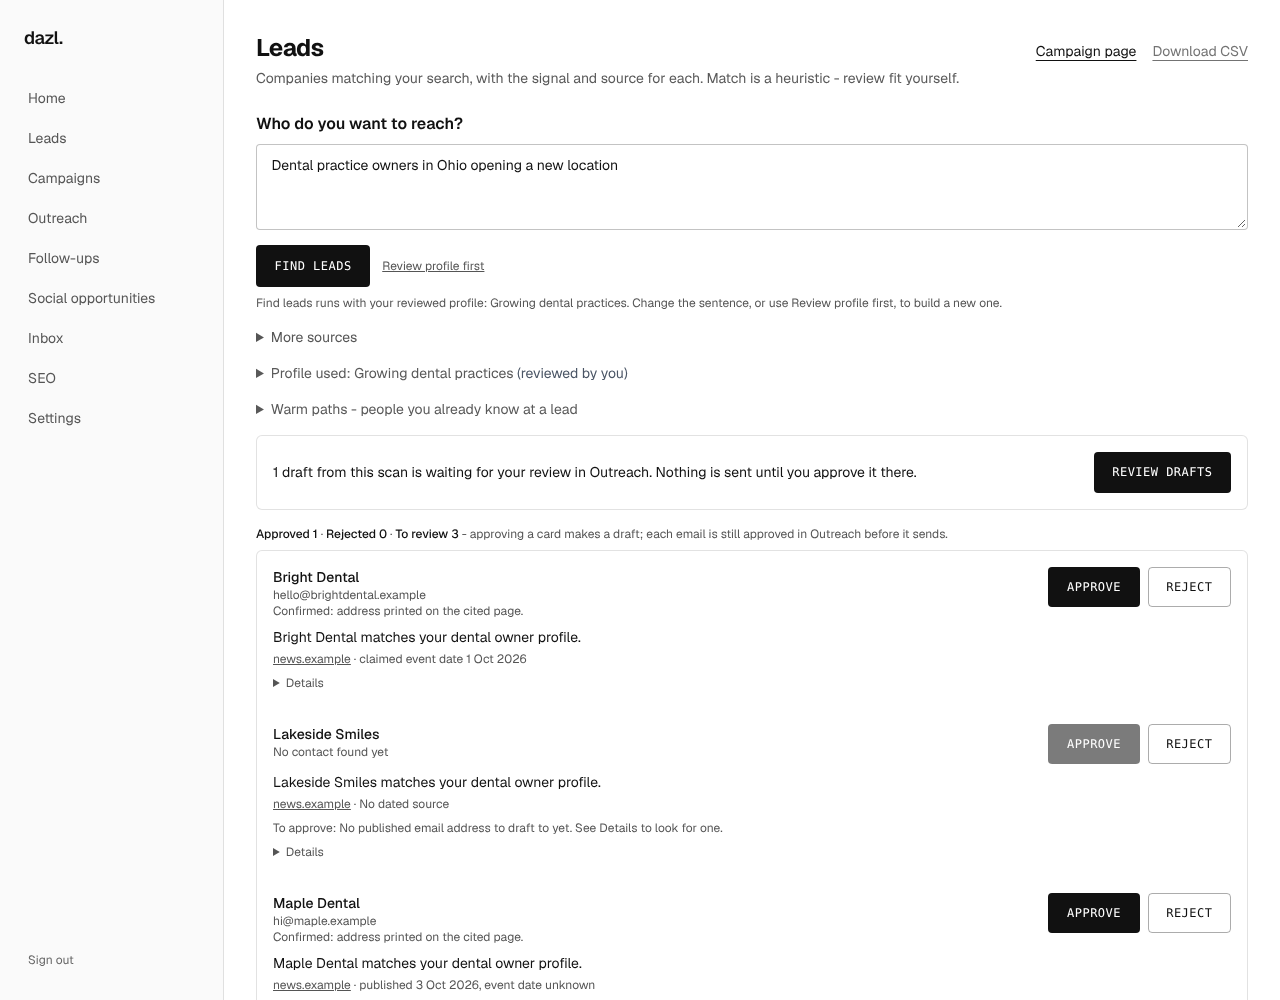
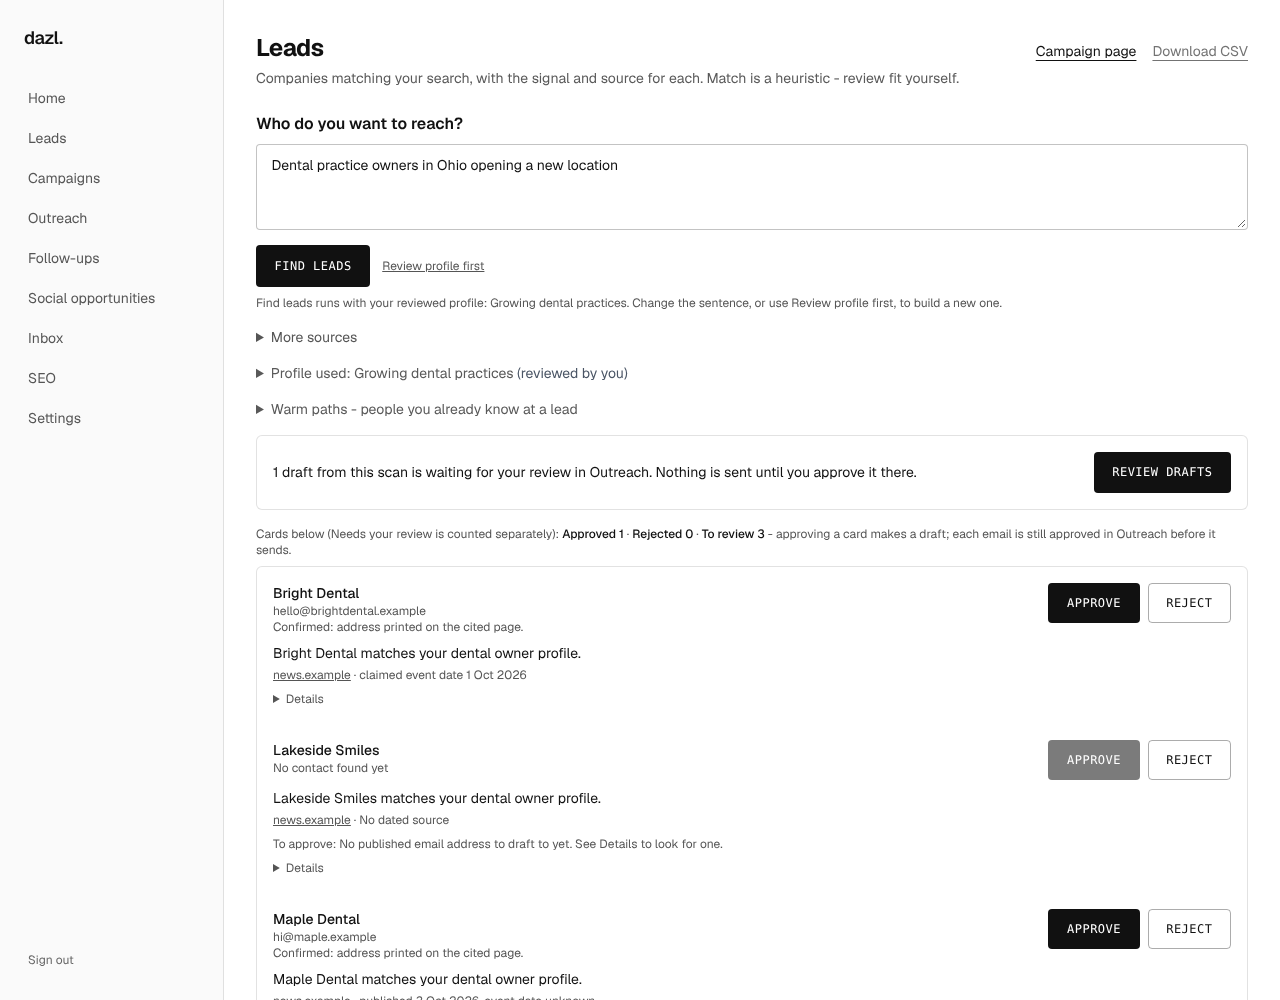
Lead cards: counts and the drafts bar read this scan's complete campaign record, and the bar says its scope
Instinct #285: the bar read GET /api/outreach, which holds only the account's newest 200 emails, so an older scan's
draft could fall outside it and read as Approved 0 / To review. Leads now reads GET /api/campaigns/<scan> (every
email made from this scan's leads, no cap) for both the Approved/Rejected/To review counts and the existing
"N drafts waiting" bar, so they cannot disagree. If that read fails, Approved and To review stay "?" with the reason.
The bar now says "Cards below (Needs your review is counted separately)".

card-counts.ui.mjs: the account-wide list is 200 newer emails of other scans and this scan's draft is not in it; the
draft still counts (fails on the previous head). review-drafts and journey stubs answer the campaign read.

Claude-Session: https://claude.ai/code/session_01CafonXdzjwkFYiMRJWtsKo

diff --git a/web/app/app/leads/leads-client.tsx b/web/app/app/leads/leads-client.tsx
@@ -416,14 +416,19 @@ export default function LeadsClient() {
   const [scanDrafts, setScanDrafts] = useState<{ drafts: number; approved: number } | null>(null)
   // Leads of this scan that have an email made from them (any status but skipped): the cards' "Approved" count.
   const [draftedLeads, setDraftedLeads] = useState<Set<string> | null>(null)
+  // Read from this scan's campaign record (GET /api/campaigns/<job>: every email made from this scan's leads, no cap),
+  // not the account-wide Outreach list, which holds only the newest 200 and can miss an older scan's drafts.
   const loadScanDrafts = async () => {
-    const r = await fetch('/api/outreach').catch(() => null)
+    const id = jobIdRef.current
+    const r = id ? await fetch(`/api/campaigns/${id}`).catch(() => null) : null
     const j = r?.ok ? await r.json().catch(() => null) : null
     setScanDrafts(j?.messages ? scanCounts(j.messages, leadIdsRef.current) : null)
     const ids = new Set(leadIdsRef.current)
     setDraftedLeads(Array.isArray(j?.messages) ? new Set((j.messages as { lead_id: string; status: string }[]).filter(m => ids.has(m.lead_id) && m.status !== 'skipped').map(m => m.lead_id)) : null)
   }
   const leadIdsRef = useRef<string[]>([])
+  const jobIdRef = useRef<string | null>(null)
+  jobIdRef.current = jobId
   leadIdsRef.current = leads.map(l => l.id)
   const leadKey = leads.map(l => l.id).join(',')
   useEffect(() => { if (leadKey) void loadScanDrafts() }, [leadKey]) // eslint-disable-line react-hooks/exhaustive-deps
@@ -790,6 +795,7 @@ export default function LeadsClient() {
         const n = cardCounts(visibleLeads, draftedLeads, approved)
         // "Approved" on a card only makes a draft: the email itself is still approved in Outreach before anything sends.
         return <p className="text-xs text-[#555] mb-2">
+          <span data-testid="card-counts-scope">Cards below (Needs your review is counted separately): </span>
           <span data-testid="card-counts"><span className="text-[#111] font-medium">Approved {n.approved ?? '?'}</span> · <span className="text-[#111] font-medium">Rejected {n.rejected}</span> · <span className="text-[#111] font-medium">To review {n.toReview ?? '?'}</span></span>
           {n.approved === null ? <span data-testid="card-counts-note"> (drafts could not be loaded, so Approved is unknown)</span> : <span data-testid="card-counts-note"> - approving a card makes a draft; each email is still approved in Outreach before it sends.</span>}
         </p>
